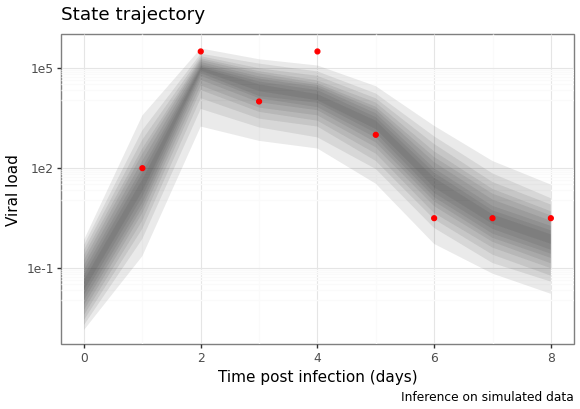
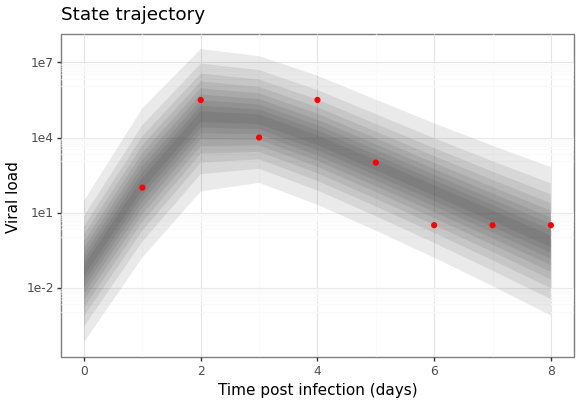
use backcasting to generate the smoothed estimates

diff --git a/particle-filter-example-tiv/src/inf.py b/particle-filter-example-tiv/src/inf.py
@@ -86,8 +86,7 @@ def state_plt_p9(post_df: pd.DataFrame,
             )
             + scale_y_log10(name = "Viral load")
             + scale_x_continuous(name = "Time post infection (days)")
-            + labs(title = "State trajectory",
-                   caption = "Inference on simulated data")
+            + labs(title = "State trajectory")
             + theme_bw())
 
 
@@ -144,8 +143,8 @@ def tiv_run_inference(inf_ctx : pypfilt.Context) -> Dict[str, Any]:
     end_time = inf_ctx.settings['time']['until']
     fit_result = pypfilt.fit(inf_ctx, filename=None)
     pst_df = pd.DataFrame(fit_result.estimation.tables['model_cints'])
-    pst_state_df = pst_df[pst_df['name'].isin(state_names)]
-    pst_state_df = pst_state_df[['time', 'prob','ymin', 'ymax', 'name']]
+    pst_state_df = pd.DataFrame(fit_result.estimation.tables['backcasts'])
+    pst_state_df = pst_state_df[['unit', 'time', 'prob','ymin', 'ymax']]
     pst_param_df = pst_df[pst_df['time'] == end_time]
     pst_param_df = pst_param_df[pst_param_df['name'].isin(param_names)]
     pst_param_df = pst_param_df[['prob','ymin', 'ymax', 'name']]

diff --git a/particle-filter-example-tiv/src/tiv.py b/particle-filter-example-tiv/src/tiv.py
@@ -1,5 +1,6 @@
 import scipy.stats
 import numpy as np
+import pypfilt
 from pypfilt.model import Model
 from pypfilt.obs import Univariate, Obs
 import pdb
@@ -59,6 +60,16 @@ class TIV_ODE(Model):
         return {'lnV0', 'beta', 'p', 'c', 'gamma'}
 
 
+class BackcastStateCIs(pypfilt.summary.BackcastPredictiveCIs):
+    """
+    Summary statistic for the smoothing problem.
+    """
+    def n_rows(self, ctx, forecasting):
+        n_obs_models = len(ctx.component['obs'])
+        n_backcast_times = ctx.summary_count()
+        return len(self._BackcastPredictiveCIs__probs) * n_backcast_times * n_obs_models
+
+
 class PerfectMeasurement(Univariate):
     """
     Measurement model for perfect measurements.
@@ -67,6 +78,7 @@ class PerfectMeasurement(Univariate):
     def distribution(self, ctx, snapshot):
         expect = np.log10(snapshot.state_vec[self.unit])
         return scipy.stats.norm(loc=expect, scale=0.0)
+
 
 class Gaussian(Univariate):
     """

diff --git a/particle-filter-example-tiv/run-inf-cli.py b/particle-filter-example-tiv/run-inf-cli.py
@@ -80,7 +80,9 @@ def main():
         if cli_args['verbose']:
             print("Generating state plot")
         pst_state_df = inf_results['posterior_state_df']
-        plt_df = pst_state_df[pst_state_df['name'] == 'V']
+        plt_df = pst_state_df[pst_state_df['unit'] == 'V']
+        plt_df['ymin'] = np.power(10, plt_df['ymin'])
+        plt_df['ymax'] = np.power(10, plt_df['ymax'])
         plt_df_obs = pd.read_csv(cli_args['obs_ssv'], sep = ' ')
         plt_df_obs['y'] = 10**plt_df_obs['value']
         state_p9 = state_plt_p9(plt_df, plt_df_obs)
